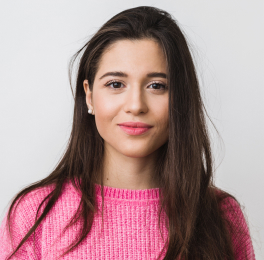
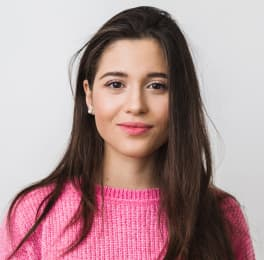
2.0

diff --git a/index.html b/index.html
@@ -63,7 +63,7 @@
         <ul>
           <li>
             <img
-              src="./images/product_designer.jpg.jpg"
+              src="./images/product_designer.jpg"
               alt="Product Designer"
               width="264"
             />
